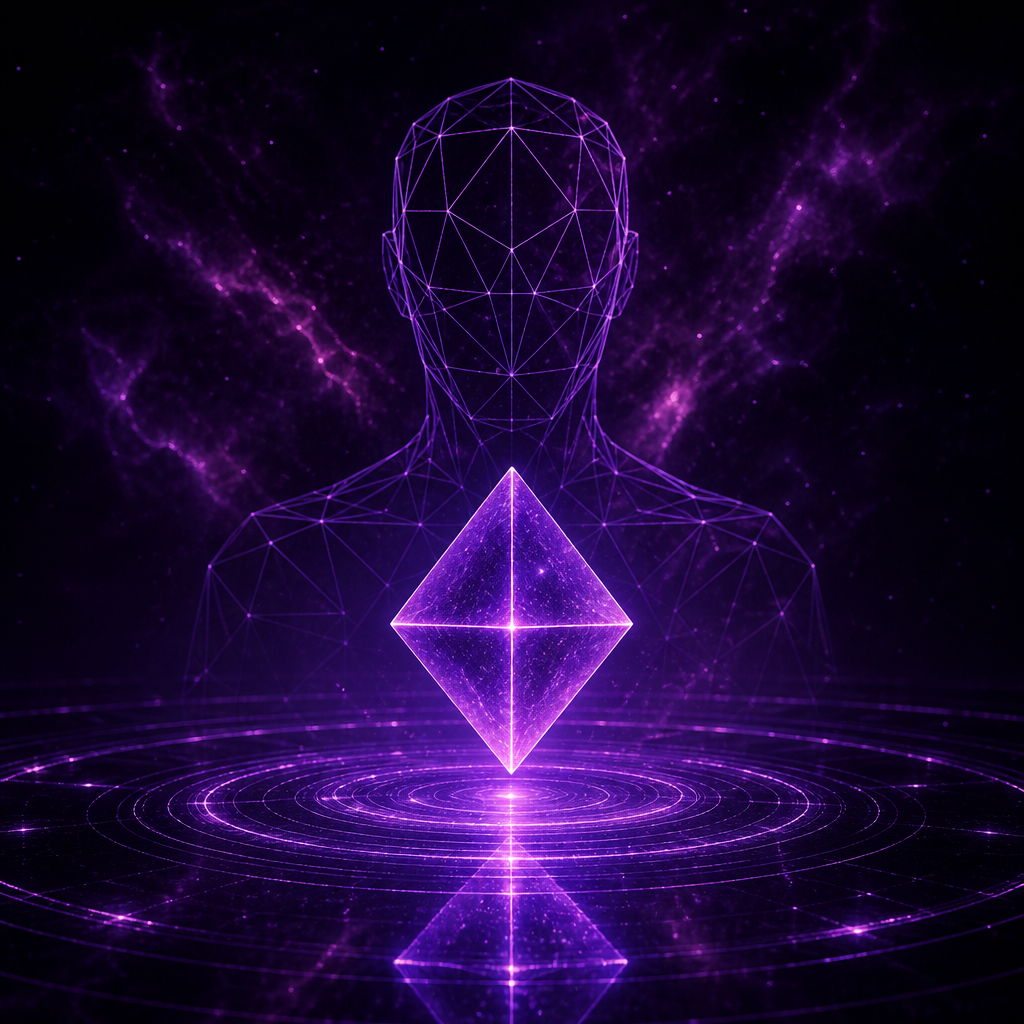
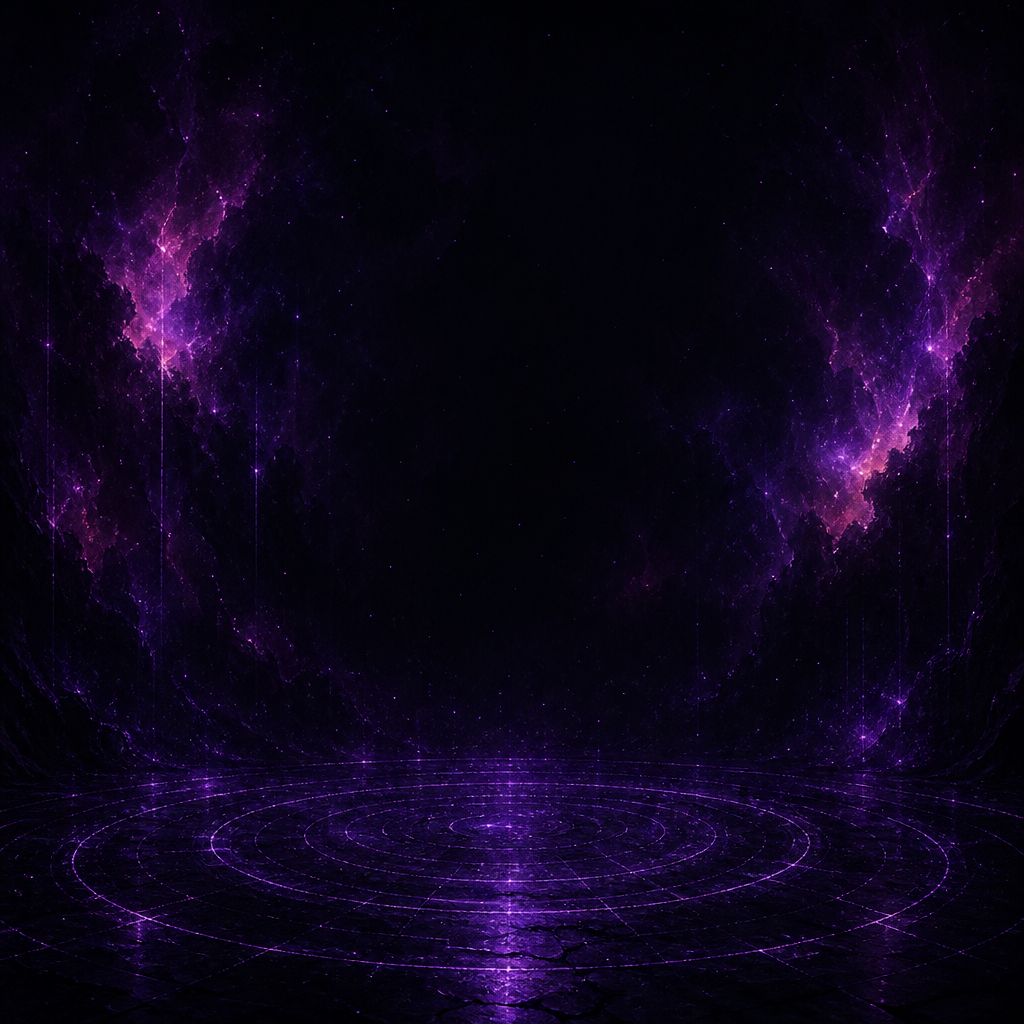
Let the Creator chamber be a wireframe bust, not a crystal totem.
Replace the photoreal creator backdrop with a violet nebula plate and enlarge the low-poly wireframe portrait so identity reads as authorship, not a statue.

diff --git a/client/src/components/spatial-registry/SpatialRegistryScene.tsx b/client/src/components/spatial-registry/SpatialRegistryScene.tsx
@@ -224,7 +224,7 @@ function makeLabel(title: string, caption: string, work = false) {
 function backdrop(loader: THREE.TextureLoader, url: string, size: number, opacity: number) {
   const plane = new THREE.Mesh(
     new THREE.PlaneGeometry(size, size),
-    new THREE.MeshBasicMaterial({ map: loadMap(loader, url), transparent: true, opacity, depthWrite: false, side: THREE.DoubleSide }),
+    new THREE.MeshBasicMaterial({ map: loadMap(loader, url), transparent: true, opacity: Math.min(opacity, 0.32), depthWrite: false, side: THREE.DoubleSide }),
   );
   return plane;
 }
@@ -470,15 +470,21 @@ export const SpatialRegistryScene = forwardRef<SpatialSceneHandle, SpatialRegist
 
     const creatorChamber = new THREE.Group();
     creatorChamber.visible = false;
-    const creatorField = backdrop(loader, ASSET.pathways.profile, 3.4, 0.5);
-    creatorField.position.set(-2.4, 1.05, -1.2);
+    const creatorField = backdrop(loader, ASSET.pathways.profile, 4.2, 0.28);
+    creatorField.position.set(0, 0.85, -2.4);
     creatorChamber.add(creatorField);
     const octa = new THREE.Mesh(new THREE.OctahedronGeometry(0.72, 0), wire(VIOLET, 0.95));
-    octa.position.set(0.15, 0.85, 0.2);
+    octa.position.set(1.15, 0.95, 0.35);
     creatorChamber.add(octa);
     const bust = makeWireBust(VIOLET);
-    bust.position.set(-1.85, 0.15, 0.15);
+    bust.position.set(-1.15, 0.2, 0.25);
+    bust.scale.setScalar(1.55);
     creatorChamber.add(bust);
+    const { wrap: identityWrap } = makeLabel("Identity", "Jake / Weave & Breathe");
+    identityWrap.style.pointerEvents = "none";
+    const identityLabel = new CSS2DObject(identityWrap);
+    identityLabel.position.set(-1.15, 2.05, 0.25);
+    creatorChamber.add(identityLabel);
     creatorChamber.add(makeRipples(VIOLET, 5, -1.45));
     SPATIAL_REGISTRY_MOCK.creatorStages.forEach((stage, index) => {
       const angle = -0.35 + index * 0.52;
